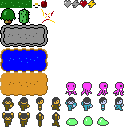
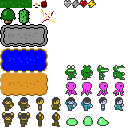
Add Gatorman monster

diff --git a/core/src/com/theironyard/javavwithclojure/porter/Gatorman.java b/core/src/com/theironyard/javavwithclojure/porter/Gatorman.java
@@ -7,16 +7,20 @@ import com.badlogic.gdx.graphics.g2d.Animation;
 import com.badlogic.gdx.graphics.g2d.TextureRegion;
 
 /**
- * Created by jeffryporter on 6/2/16.
+ * Created by jeffryporter on 6/5/16.
  */
-public class Jelly extends Monster
+public class Gatorman extends Monster
 {
     private Texture tiles;
     private TextureRegion[][] grid;
     private TextureRegion down;
     private TextureRegion up;
-    private TextureRegion left;
     private TextureRegion right;
+    private TextureRegion left;
+    private TextureRegion stand;
+    private TextureRegion upReversed;
+    private TextureRegion downReversed;
+    private TextureRegion standReversed;
     private int windowHeight;
     private int windowWidth;
     private int pathDirectionX;
@@ -26,32 +30,37 @@ public class Jelly extends Monster
     private boolean hasPath = false;
     private Sound attackSound;
 
-    public static final float SLOW_MULTIPLIER = .75f;
+
     public static final float SPEED_MULTIPLIER = 1.5f;
     public static final float MAX_PATH_DURATION = 2.0f;
-
+    public static final float SLOW_MULTIPLIER = .75f;
 
     private float x, y, xv, yv;
     private Animation walkUp;
     private Animation walkDown;
     private Animation walkLeft;
     private Animation walkRight;
-    private Animation stand;
 
     public void create ()
     {
         tiles = new Texture("tiles.png");
         grid = TextureRegion.split(tiles, MyGdxGame.WIDTH, MyGdxGame.HEIGHT);
-        down = grid[7][4];
-        up = grid[7][5];
-        left = grid[7][6];
-        right = new TextureRegion(left);
-        right.flip(true, false);
-        walkUp = new Animation(0.15f, up, down);
-        walkDown = new Animation(.15f, up, down);
-        walkLeft = new Animation(.15f, left, down);
-        walkRight = new Animation(.15f, right, down);
-
+        down = grid[4][4];
+        up = grid[4][5];
+        stand = grid[4][6];
+        right = grid[4][7];
+        left = new TextureRegion(right);
+        left.flip(true, false);
+        upReversed = new TextureRegion(up);
+        upReversed.flip(true, false);
+        downReversed = new TextureRegion(down);
+        downReversed.flip(true, false);
+        standReversed = new TextureRegion(stand);
+        standReversed.flip(true, false);
+        walkUp = new Animation(0.15f, up, upReversed);
+        walkDown = new Animation(.15f, down, downReversed);
+        walkLeft = new Animation(.15f, left, standReversed);
+        walkRight = new Animation(.15f, right, stand);
     }
 
     public TextureRegion animationTile(float time)
@@ -75,7 +84,7 @@ public class Jelly extends Monster
         }
         else
         {
-            zImg = walkUp.getKeyFrame(time, true);;
+            zImg = stand;
         }
         return zImg;
     }
@@ -118,7 +127,6 @@ public class Jelly extends Monster
             }
         }
 
-
         float delta = Gdx.graphics.getDeltaTime();
         y+= yv * delta;
         x+= xv * delta;
@@ -133,8 +141,6 @@ public class Jelly extends Monster
         windowHeight = Gdx.graphics.getHeight();
         windowWidth = Gdx.graphics.getWidth();
 
-
-        //wrap around code
         if (x<(-MyGdxGame.WIDTH*MyGdxGame.SCALE_MULTIPLIER))
         {
             x = windowWidth;
@@ -188,6 +194,7 @@ public class Jelly extends Monster
             {
                 pathDirectionY = 0;
             }
+
         }
         else if (!hasPath)
         {
@@ -205,7 +212,6 @@ public class Jelly extends Monster
     public float getY() {
         return y;
     }
-
     public void startLocation(boolean run)
     {
         if (run)
@@ -225,11 +231,13 @@ public class Jelly extends Monster
         {
             hasTarget = false;
         }
+
     }
 
     @Override
     public Sound getAttackSound()
     {
-        return attackSound = Gdx.audio.newSound(Gdx.files.internal("jellyattack.mp3"));
+        return attackSound = Gdx.audio.newSound(Gdx.files.internal("zombieattack.mp3"));
     }
 }
+

diff --git a/core/src/com/theironyard/javavwithclojure/porter/Octopus.java b/core/src/com/theironyard/javavwithclojure/porter/Octopus.java
@@ -32,7 +32,7 @@ public class Octopus extends Monster {
 
     public static final float SPEED_MULTIPLIER = 1.5f;
     public static final float MAX_PATH_DURATION = 2.0f;
-    public static final float DETECT_DISTANCE = 150f;
+    public static final float SLOW_MULTIPLIER = .75f;
 
     private float x, y, xv, yv;
     private Animation walkUp;
@@ -77,32 +77,44 @@ public class Octopus extends Monster {
         return zImg;
     }
 
-    public void moveCharacter(PlayerCharacter player) {
+    public void moveCharacter(PlayerCharacter player)
+    {
         choosePath(player);
 
-        if (pathDirectionY == 0) {
-            yv = MyGdxGame.MAX_VELOCITY;
-            if (hasTarget) {
-                yv = MyGdxGame.MAX_VELOCITY * SPEED_MULTIPLIER;
+        if (pathDirectionY == 0)
+        {
+            yv = MyGdxGame.MAX_VELOCITY*SLOW_MULTIPLIER;
+            if (hasTarget && !(Math.abs(y-player.getY())<MyGdxGame.STOP_THRESHHOLD))
+            {
+                yv = MyGdxGame.MAX_VELOCITY*SPEED_MULTIPLIER;
             }
-        } else if (pathDirectionY == 1) {
-            yv = -MyGdxGame.MAX_VELOCITY;
-            if (hasTarget) {
-                yv = -MyGdxGame.MAX_VELOCITY * SPEED_MULTIPLIER;
+        }
+        else if (pathDirectionY == 1)
+        {
+            yv = -MyGdxGame.MAX_VELOCITY*SLOW_MULTIPLIER;
+            if (hasTarget && !(Math.abs(y-player.getY())<MyGdxGame.STOP_THRESHHOLD))
+            {
+                yv = -MyGdxGame.MAX_VELOCITY*SPEED_MULTIPLIER;
             }
         }
 
-        if (pathDirectionX == 0) {
-            xv = MyGdxGame.MAX_VELOCITY;
-            if (hasTarget) {
-                xv = MyGdxGame.MAX_VELOCITY * SPEED_MULTIPLIER;
-            }
-        } else if (pathDirectionX == 1) {
-            xv = -MyGdxGame.MAX_VELOCITY;
-            if (hasTarget) {
-                xv = -MyGdxGame.MAX_VELOCITY * SPEED_MULTIPLIER;
+        if (pathDirectionX == 0)
+        {
+            xv = MyGdxGame.MAX_VELOCITY*SLOW_MULTIPLIER;
+            if (hasTarget && !(Math.abs(x-player.getX())<MyGdxGame.STOP_THRESHHOLD))
+            {
+                xv = MyGdxGame.MAX_VELOCITY*SPEED_MULTIPLIER;
             }
         }
+        else if (pathDirectionX == 1)
+        {
+            xv = -MyGdxGame.MAX_VELOCITY*SLOW_MULTIPLIER;
+            if (hasTarget && !(Math.abs(x-player.getX())<MyGdxGame.STOP_THRESHHOLD))
+            {
+                xv = -MyGdxGame.MAX_VELOCITY*SPEED_MULTIPLIER;
+            }
+        }
+
 
         float delta = Gdx.graphics.getDeltaTime();
         y += yv * delta;
@@ -189,14 +201,7 @@ public class Octopus extends Monster {
         {
             hasTarget = false;
         }
-        if (((Math.abs((x-player.getX())))<2) && !((Math.abs((y-player.getY()))) < 2))
-        {
-            x = player.getX();
-        }
-        if (!((Math.abs((x-player.getX())))<2) && ((Math.abs((y-player.getY()))) < 2))
-        {
-            y = player.getY();
-        }
+
     }
 
     @Override

diff --git a/core/src/com/theironyard/javavwithclojure/porter/Zombie.java b/core/src/com/theironyard/javavwithclojure/porter/Zombie.java
@@ -33,7 +33,7 @@ public class Zombie extends Monster
 
     public static final float SPEED_MULTIPLIER = 1.5f;
     public static final float MAX_PATH_DURATION = 2.0f;
-    public static final float DETECT_DISTANCE = 150f;
+    public static final float SLOW_MULTIPLIER = .75f;
 
     private float x, y, xv, yv;
     private Animation walkUp;
@@ -95,16 +95,16 @@ public class Zombie extends Monster
 
         if (pathDirectionY == 0)
         {
-            yv = MyGdxGame.MAX_VELOCITY;
-            if (hasTarget)
+            yv = MyGdxGame.MAX_VELOCITY*SLOW_MULTIPLIER;
+            if (hasTarget && !(Math.abs(y-player.getY())<MyGdxGame.STOP_THRESHHOLD))
             {
                 yv = MyGdxGame.MAX_VELOCITY*SPEED_MULTIPLIER;
             }
         }
         else if (pathDirectionY == 1)
         {
-            yv = -MyGdxGame.MAX_VELOCITY;
-            if (hasTarget)
+            yv = -MyGdxGame.MAX_VELOCITY*SLOW_MULTIPLIER;
+            if (hasTarget && !(Math.abs(y-player.getY())<MyGdxGame.STOP_THRESHHOLD))
             {
                 yv = -MyGdxGame.MAX_VELOCITY*SPEED_MULTIPLIER;
             }
@@ -112,16 +112,16 @@ public class Zombie extends Monster
 
         if (pathDirectionX == 0)
         {
-            xv = MyGdxGame.MAX_VELOCITY;
-            if (hasTarget)
+            xv = MyGdxGame.MAX_VELOCITY*SLOW_MULTIPLIER;
+            if (hasTarget && !(Math.abs(x-player.getX())<MyGdxGame.STOP_THRESHHOLD))
             {
                 xv = MyGdxGame.MAX_VELOCITY*SPEED_MULTIPLIER;
             }
         }
         else if (pathDirectionX == 1)
         {
-            xv = -MyGdxGame.MAX_VELOCITY;
-            if (hasTarget)
+            xv = -MyGdxGame.MAX_VELOCITY*SLOW_MULTIPLIER;
+            if (hasTarget && !(Math.abs(x-player.getX())<MyGdxGame.STOP_THRESHHOLD))
             {
                 xv = -MyGdxGame.MAX_VELOCITY*SPEED_MULTIPLIER;
             }
@@ -194,6 +194,7 @@ public class Zombie extends Monster
             {
                 pathDirectionY = 0;
             }
+
         }
         else if (!hasPath)
         {
@@ -230,14 +231,7 @@ public class Zombie extends Monster
         {
             hasTarget = false;
         }
-        if (((Math.abs((x-player.getX())))<2) && !((Math.abs((y-player.getY()))) < 2))
-        {
-                x = player.getX();
-        }
-        if (!((Math.abs((x-player.getX())))<2) && ((Math.abs((y-player.getY()))) < 2))
-        {
-            y = player.getY();
-        }
+
     }
 
     @Override

diff --git a/core/src/com/theironyard/javavwithclojure/porter/MyGdxGame.java b/core/src/com/theironyard/javavwithclojure/porter/MyGdxGame.java
@@ -51,7 +51,7 @@ public class MyGdxGame extends ApplicationAdapter implements InputProcessor {
 	static final float STOP_THRESHHOLD = 5f;
 	static final float AGGRO_RANGE = 100f;
 	static final float PROXIMITY_TOUCHING = 32f;
-	static final int NUM_OF_MONSTERS = 4;
+	static final int NUM_OF_MONSTERS = 20;
 
 	@Override
 	public void create () {
@@ -71,7 +71,7 @@ public class MyGdxGame extends ApplicationAdapter implements InputProcessor {
 		healthFont = new BitmapFont();
 		theEndFont = new BitmapFont();
 		theEndFont.setColor(Color.RED);
-		theEndOutput = "You have died!\n   THE END!\n PLAY AGAIN?\n      Y/N";
+		theEndOutput = "You have died!\n   THE END!\n PLAY AGAIN?\n        Y/N";
 
 		float w = Gdx.graphics.getWidth();
 		float h = Gdx.graphics.getHeight();
@@ -205,7 +205,7 @@ public class MyGdxGame extends ApplicationAdapter implements InputProcessor {
 		for (int i = 0; i< NUM_OF_MONSTERS ; i++)
 		{
 			Monster monster = null;
-			int selector = (int)((Math.random()*50)%3);
+			int selector = (int)((Math.random()*50)%4);
 			switch (selector)
 			{
 				case 0:
@@ -216,6 +216,9 @@ public class MyGdxGame extends ApplicationAdapter implements InputProcessor {
 					break;
 				case 2:
 					monster = new Octopus();
+					break;
+				case 3:
+					monster = new Gatorman();
 					break;
 			}
 			monster.create();
